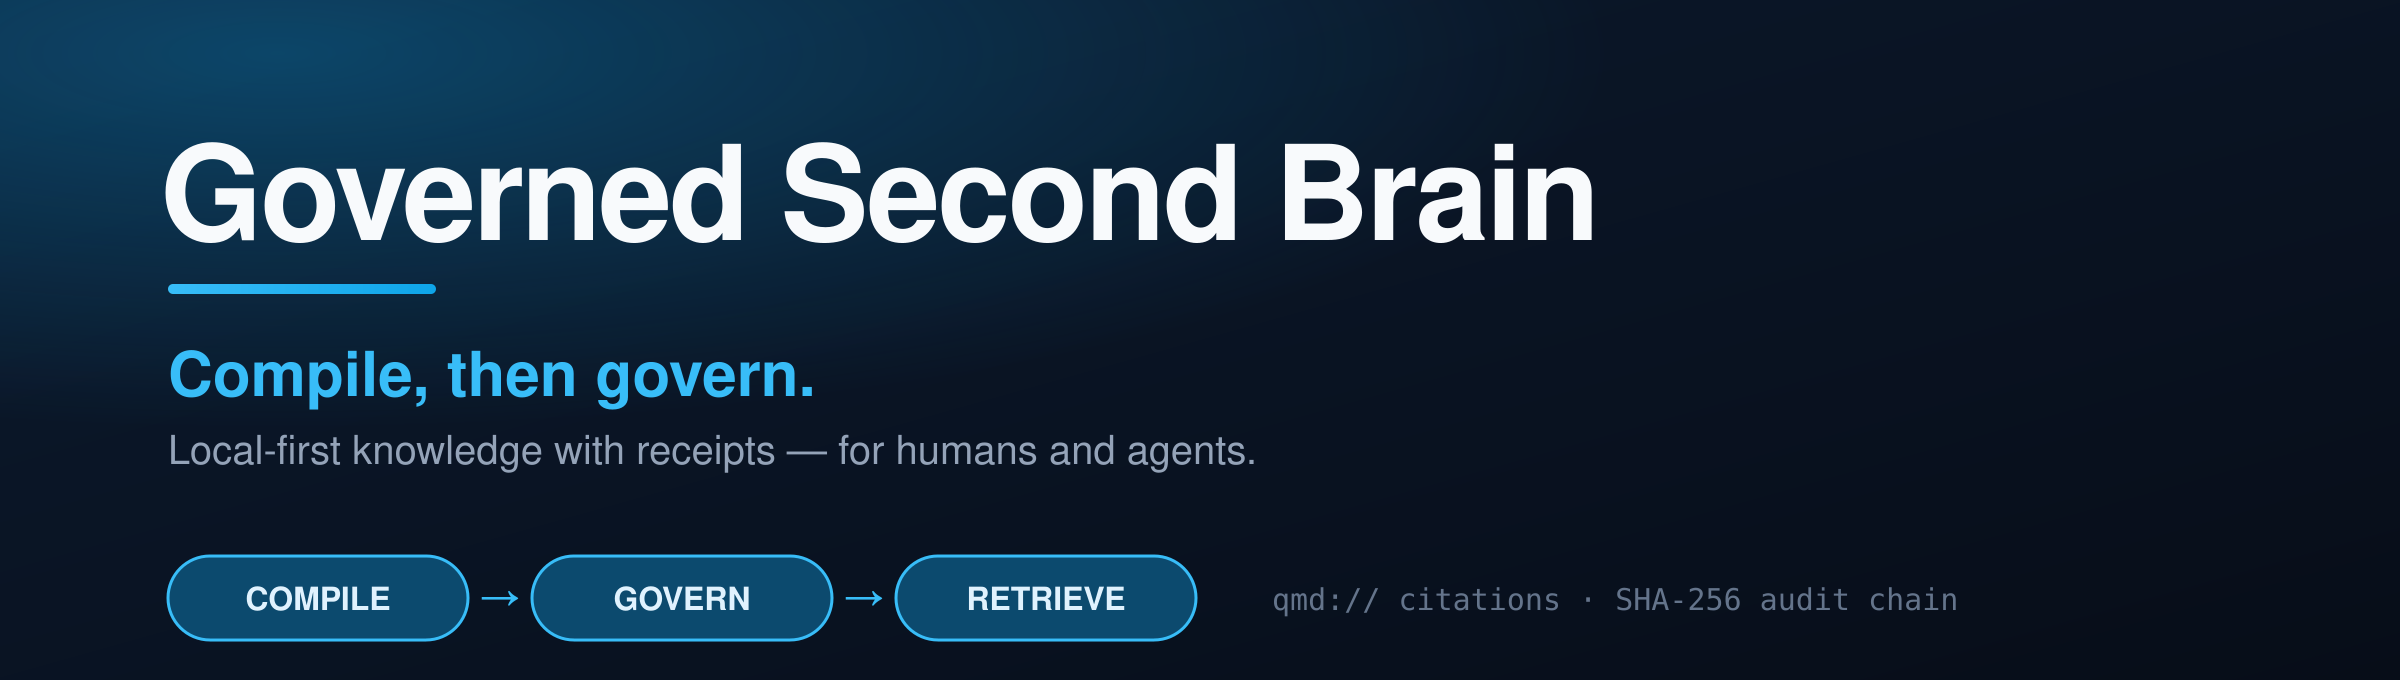
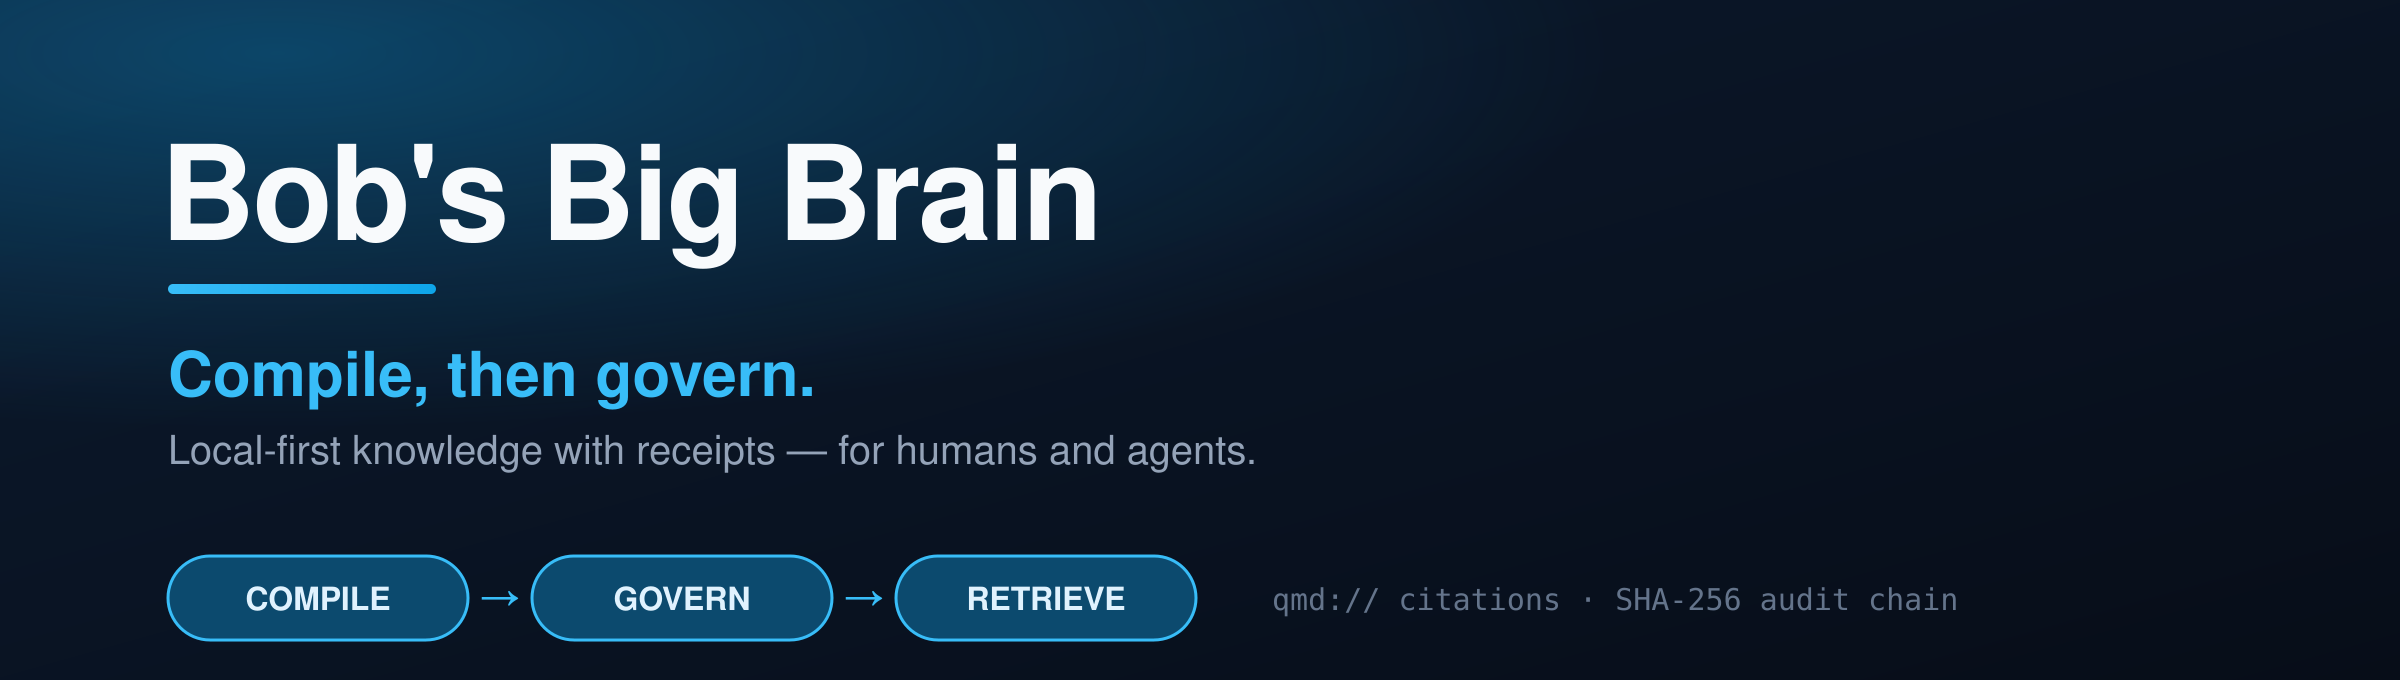
docs(readme): rename public product name to "Bob's Big Brain"
WHAT — swap the human-readable PRODUCT NAME across the umbrella's public
surfaces from "Governed Second Brain" to "Bob's Big Brain": the README H1,
the banner alt text, the hero tagline, the umbrella-stack sentence, the
competitive comparison-table column header, and the gstack rebuttal line;
plus the live <text> title in all three assets/ SVGs (banner-dark,
banner-light, social-card) and their rsvg-convert-regenerated PNGs. New hero
tagline: "The governed team brain — cited recall, hash-chained receipts."

WHY & rationale — brand/copy change only. Chose a display-name-only rename
over renaming the repo / npm package / bead prefix because those are
technical IDs whose change is irreversible-ish (URL redirects, an already-
published npm package, audit/bead handles) and the ask was scoped to "just
the public name." Repo slugs, the npm package `governed-second-brain`,
node-graph labels, and every link are left untouched.

Guardrails held — "governed"/"govern"/"governance" stay as DESCRIPTORS (the
moat vocabulary: tagline "the governed team brain", the GOVERN pill,
"Compile, then govern"); the "What the receipt does not do" honesty box is
untouched and remains the ONLY place the forbidden words appear, as
negations; "tamper-evident" preserved; the compile -> spool -> govern ->
receipts thesis and "the model proposes; deterministic code owns durable
state" framing unchanged.

Layer — docs + assets only. No code, no schema, no CI, no cross-layer
invariant touched.
[…]

Changed region(s): [[0.0625, 0.1853, 0.6875, 0.4015]]

diff --git a/README.md b/README.md
@@ -1,14 +1,15 @@
 <p align="center">
   <picture>
     <source media="(prefers-color-scheme: dark)" srcset="assets/banner-dark.svg">
-    <img alt="Governed Second Brain — local-first, citation-backed knowledge with receipts. Compile, then govern." src="assets/banner-light.svg" width="860">
+    <img alt="Bob's Big Brain — local-first, citation-backed knowledge with receipts. Compile, then govern." src="assets/banner-light.svg" width="860">
   </picture>
 </p>
 
-<h1 align="center">Governed Second Brain</h1>
+<h1 align="center">Bob's Big Brain</h1>
 
 <p align="center">
-  Turn <em>your own</em> files into a governed, <code>qmd://</code>-cited second brain with a tamper-evident audit trail — for humans and agents.<br>
+  <strong>The governed team brain — cited recall, hash-chained receipts.</strong><br>
+  Turn <em>your own</em> files into a governed, <code>qmd://</code>-cited team brain with a tamper-evident audit trail — for humans and agents.<br>
   <strong>Compile, then govern.</strong> Local by default; remote sharing is your opt-in.
 </p>
 
@@ -31,7 +32,7 @@
 
 ---
 
-This repo is the umbrella for the **Governed Second Brain** stack — local-first knowledge built on the *compile, then govern* architecture. Each component is its own independently developed and released repository; this repo is where we explain **what they are, what they do, how they stack, and why they beat the alternatives.** No application code lives here — just the map.
+This repo is the umbrella for the **Bob's Big Brain** stack — local-first knowledge built on the *compile, then govern* architecture. Each component is its own independently developed and released repository; this repo is where we explain **what they are, what they do, how they stack, and why they beat the alternatives.** No application code lives here — just the map.
 
 ## The 60-second version
 
@@ -49,7 +50,7 @@ This stack is built around that gap.
 
 The category optimizes one axis: recall. We compete on a different one: **govern + receipts.**
 
-| Capability | Vector stores<br><sub>Pinecone · Chroma · pgvector</sub> | Agent-memory layers<br><sub>gstack/GBrain · Mem0 · Letta · Zep</sub> | **Governed Second Brain** |
+| Capability | Vector stores<br><sub>Pinecone · Chroma · pgvector</sub> | Agent-memory layers<br><sub>gstack/GBrain · Mem0 · Letta · Zep</sub> | **Bob's Big Brain** |
 |---|:---:|:---:|:---:|
 | Recall / retrieval | ✅ | ✅ | ✅ |
 | **Derived** knowledge (summaries, concepts, contradictions) | ❌ raw chunks | ◑ extraction | ✅ 6 compiler passes |
@@ -66,7 +67,7 @@ The category optimizes one axis: recall. We compete on a different one: **govern
 
 **What we do better:** we don't hand the model a pile of similar chunks and hope. We *derive* knowledge, *govern* what's allowed to become durable memory with deterministic code, and *prove* every retrieval with a citation + an audit chain. The model proposes; the system decides and records.
 
-> **On gstack / GBrain.** [gstack](https://github.com/garrytan/gstack) (Garry Tan's Claude Code harness, ~90K★) ships [GBrain](https://github.com/garrytan/gstack) as its memory layer, and it's genuinely strong at the thing it's built for: recall — top LongMemEval-S scores, ~92% fewer tokens per session, near-zero-friction capture. That's the recall axis, done well. What a memory layer doesn't do — by design, it's memory, not a control plane — is gate what becomes durable knowledge through deterministic policy, or hand you a tamper-evident receipt of what the agent actually used. *"Better memory for agents, but no receipt for what the agent did with it"* was the exact critique that kicked off this project. The Governed Second Brain is the answer: recall **and** governance **and** receipts.
+> **On gstack / GBrain.** [gstack](https://github.com/garrytan/gstack) (Garry Tan's Claude Code harness, ~90K★) ships [GBrain](https://github.com/garrytan/gstack) as its memory layer, and it's genuinely strong at the thing it's built for: recall — top LongMemEval-S scores, ~92% fewer tokens per session, near-zero-friction capture. That's the recall axis, done well. What a memory layer doesn't do — by design, it's memory, not a control plane — is gate what becomes durable knowledge through deterministic policy, or hand you a tamper-evident receipt of what the agent actually used. *"Better memory for agents, but no receipt for what the agent did with it"* was the exact critique that kicked off this project. Bob's Big Brain is the answer: recall **and** governance **and** receipts.
 
 ## What's in the stack
 